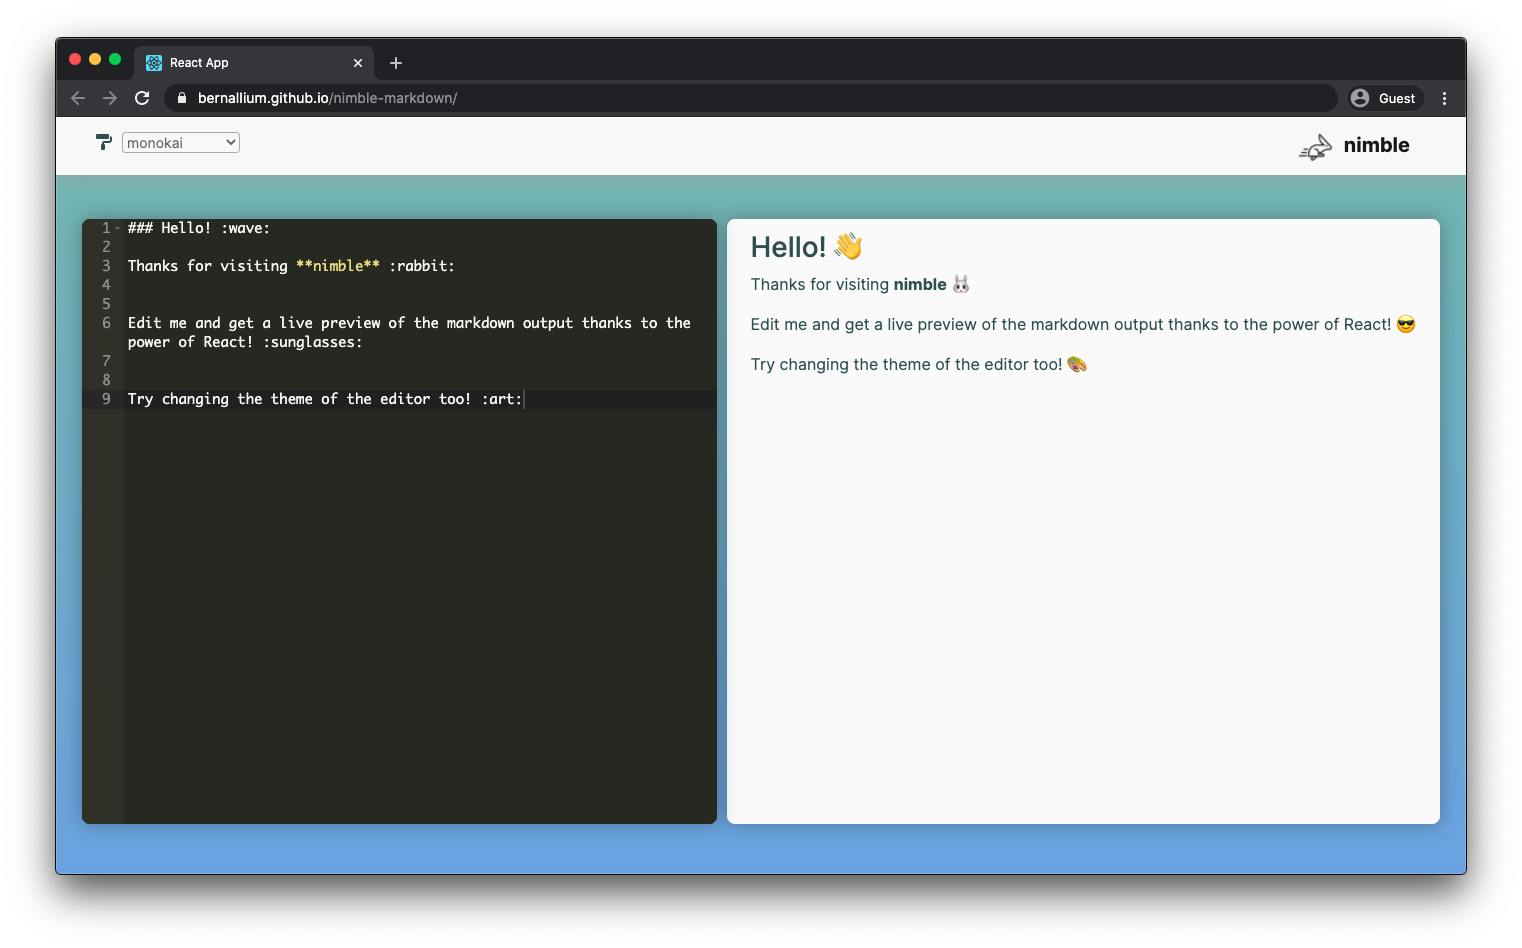
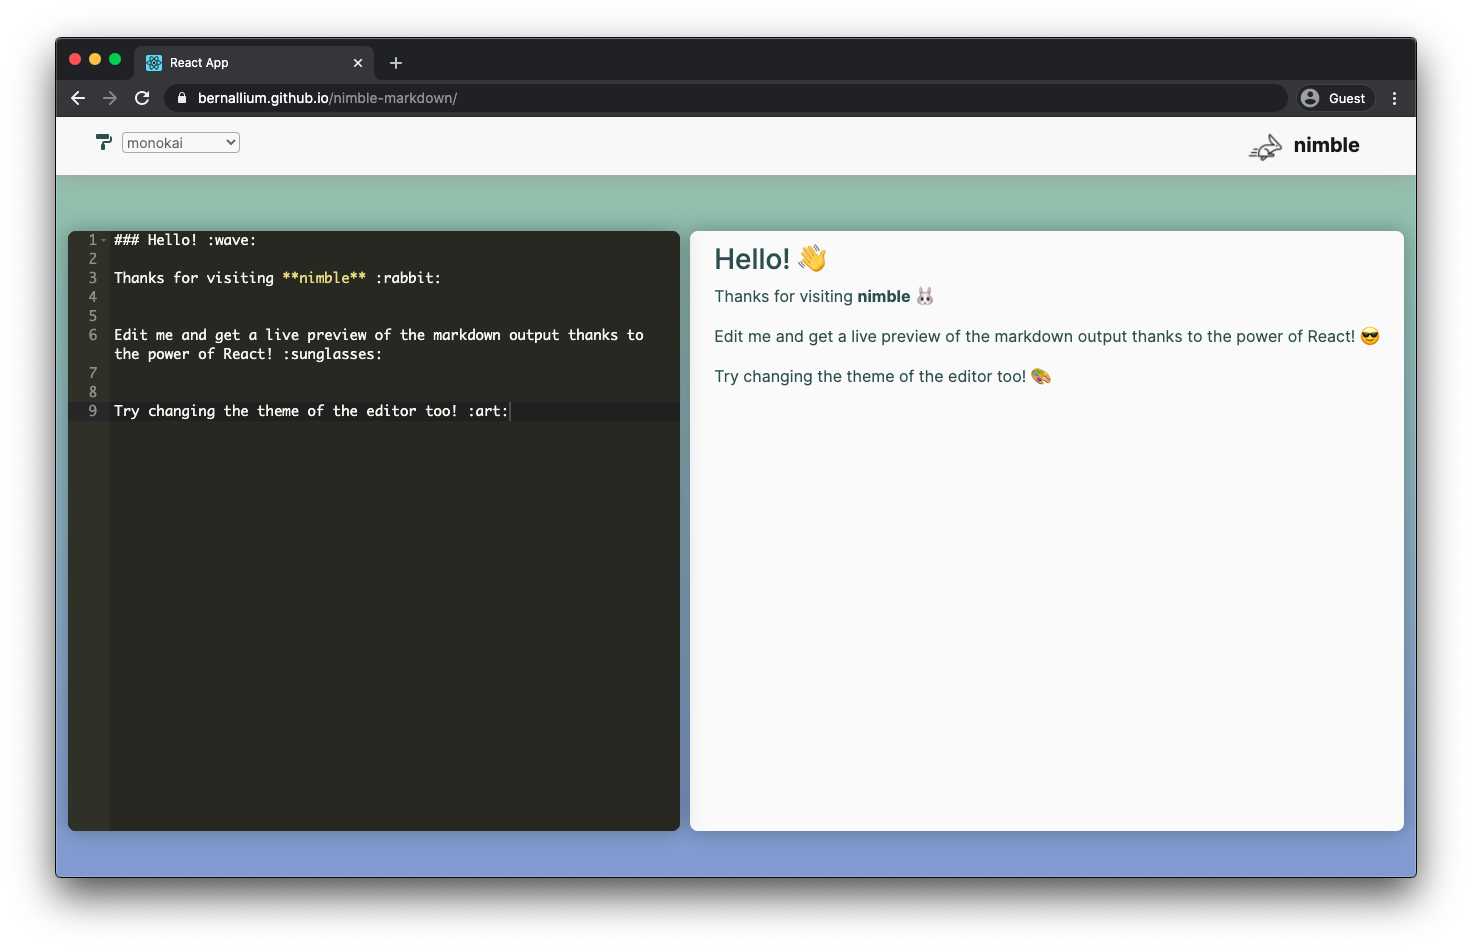
Update README.md with screenshots

Changed region(s): [[0.0312, 0.0306, 0.9688, 0.8871]]

diff --git a/README.md b/README.md
@@ -3,3 +3,19 @@
 nimble is a simple markdown editor that gives you a live translation of your markdown input.
 
 ### [Click HERE to start the app >> ](https://bernallium.github.io/nimble-markdown/)
+
+<p align="center">
+  <img src="public/screenshots/hero.png"/>
+  <img src="public/screenshots/editor-and-view-panel.png"/>
+</p>
+
+<p float="left" align="center">
+  <img src="public/screenshots/responsive-1.png"/>
+  <img src="public/screenshots/responsive-2.png"/>
+</p>
+
+## Built With 👨💻
+
+* `React`
+* [`React-Ace`](https://github.com/securingsincity/react-ace)
+* [`ShowdownJS`](https://github.com/showdownjs/showdown)
